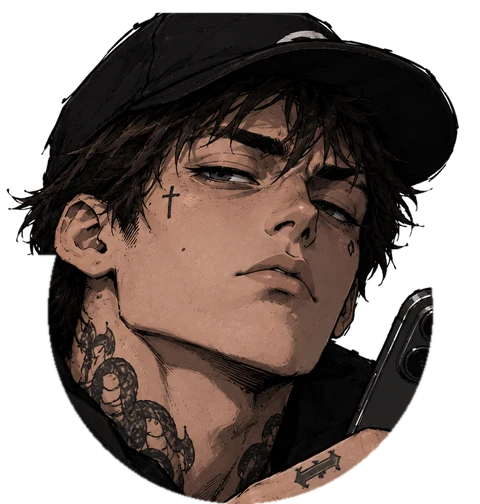
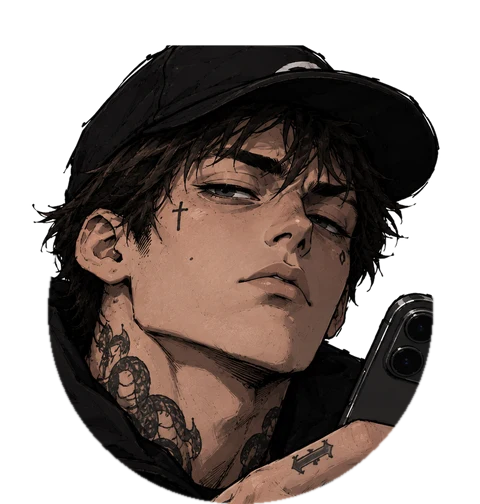
Саша: стикер того же размера и посадки, что у Ани
Claude-Session: https://claude.ai/code/session_01DYXXimowcmb2xKK4BwY2yD

Changed region(s): [[0.0, 0.0, 0.9688, 1.0], [0.4688, 0.119, 0.5, 0.1488]]

diff --git a/index.html b/index.html
@@ -1787,7 +1787,7 @@ details.dsec[open]>summary::after{transform:rotate(-135deg);margin-top:4px}
           <div class="an-ft"><small class="bw-note">Аня отвечает, когда включён рабочий компьютер.</small><button class="an-ref" type="button" id="anna-ref-btn" aria-label="Обновить сводку Ани"><svg viewBox="0 0 24 24" fill="none" stroke="currentColor" stroke-width="2.6" stroke-linecap="round" stroke-linejoin="round" aria-hidden="true"><path d="M20 11a8 8 0 1 0-2.3 5.7"/><path d="M20 4v7h-7"/></svg>Обновить</button></div>
         </div>
         <div class="w" id="w-sasha">
-          <div class="w-h"><h2><span class="an-av" id="sasha-av" aria-hidden="true"><span class="ci"></span><span class="fs"><span class="fg"><img src="sasha-avatar.webp?v=3" alt="" width="240" height="252"></span></span><i class="tt"><svg viewBox="0 0 24 24" aria-hidden="true"><g fill="none" stroke-width="3.2" stroke-linecap="round" stroke-linejoin="round"><path stroke="#25f4ee" transform="translate(-1 -1)" d="M14 3v11.5a3.5 3.5 0 1 1-3.5-3.5M14 3c.6 2.6 2.6 4.2 5.2 4.2"/><path stroke="#fe2c55" transform="translate(1 1)" d="M14 3v11.5a3.5 3.5 0 1 1-3.5-3.5M14 3c.6 2.6 2.6 4.2 5.2 4.2"/><path stroke="#fff" d="M14 3v11.5a3.5 3.5 0 1 1-3.5-3.5M14 3c.6 2.6 2.6 4.2 5.2 4.2"/></g></svg>TikTok</i></span><span class="at">Маркетолог Саша<span class="c" id="w-sasha-c">подключаемся…</span></span></h2></div>
+          <div class="w-h"><h2><span class="an-av" id="sasha-av" aria-hidden="true"><span class="ci"></span><span class="fs"><span class="fg"><img src="sasha-avatar.webp?v=4" alt="" width="240" height="252"></span></span><i class="tt"><svg viewBox="0 0 24 24" aria-hidden="true"><g fill="none" stroke-width="3.2" stroke-linecap="round" stroke-linejoin="round"><path stroke="#25f4ee" transform="translate(-1 -1)" d="M14 3v11.5a3.5 3.5 0 1 1-3.5-3.5M14 3c.6 2.6 2.6 4.2 5.2 4.2"/><path stroke="#fe2c55" transform="translate(1 1)" d="M14 3v11.5a3.5 3.5 0 1 1-3.5-3.5M14 3c.6 2.6 2.6 4.2 5.2 4.2"/><path stroke="#fff" d="M14 3v11.5a3.5 3.5 0 1 1-3.5-3.5M14 3c.6 2.6 2.6 4.2 5.2 4.2"/></g></svg>TikTok</i></span><span class="at">Маркетолог Саша<span class="c" id="w-sasha-c">подключаемся…</span></span></h2></div>
           <div class="an-body" id="w-sasha-body">
             <div class="an-col">
               <div id="w-sasha-plan"></div>
